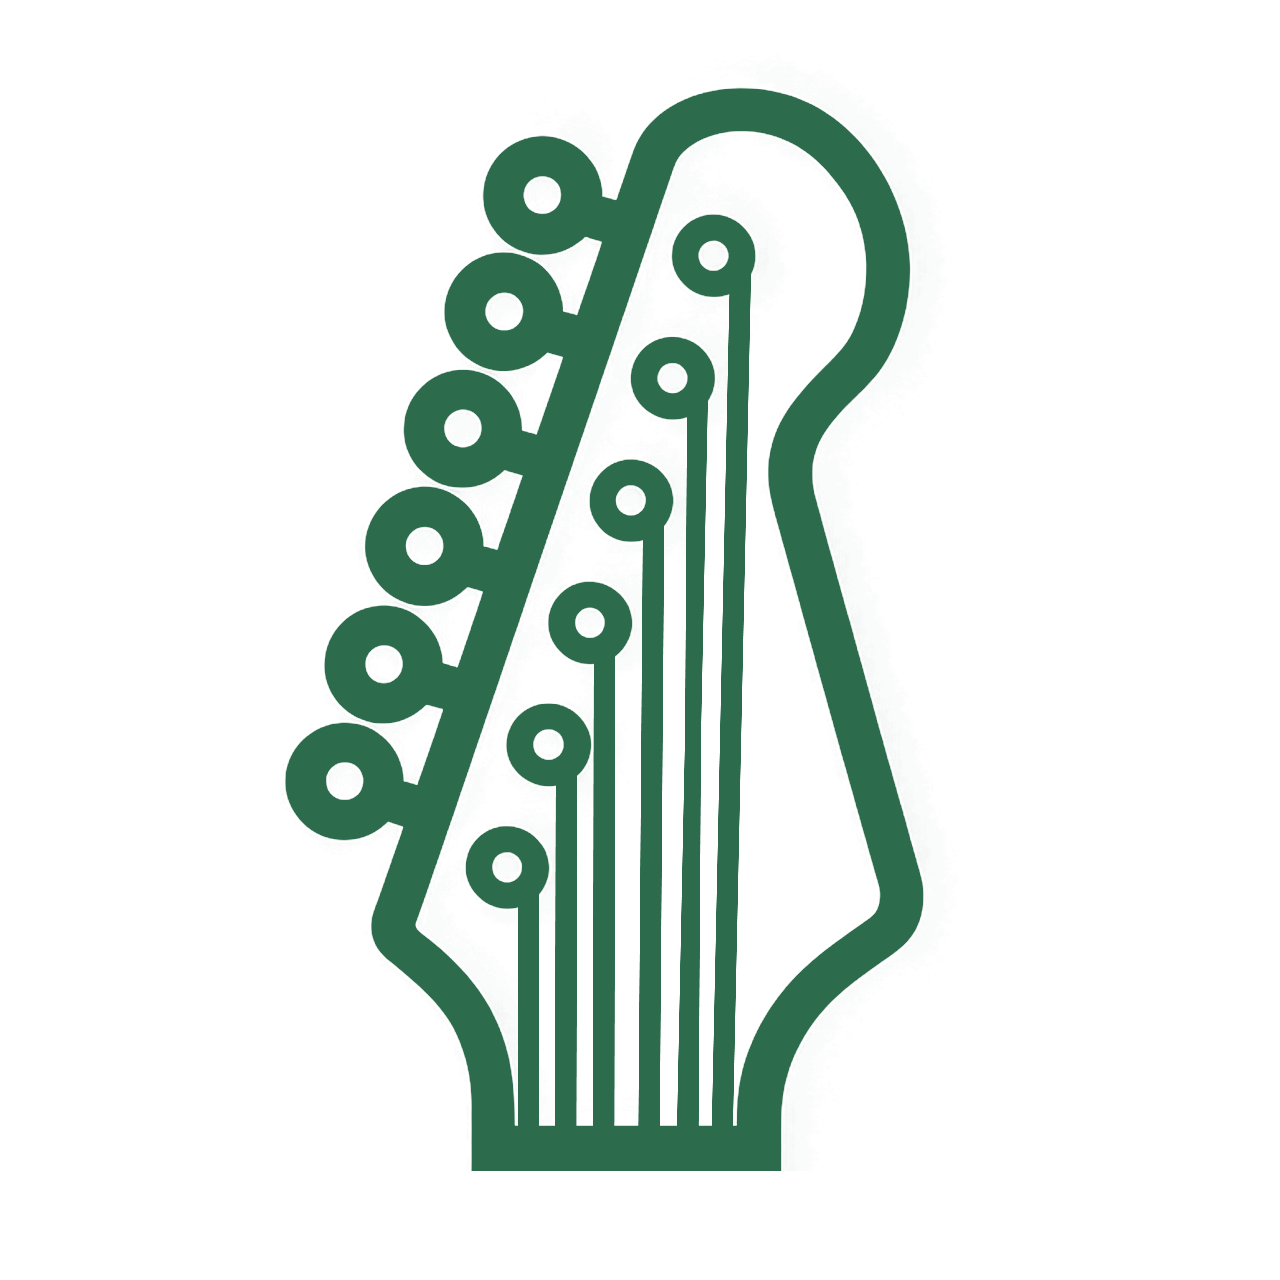
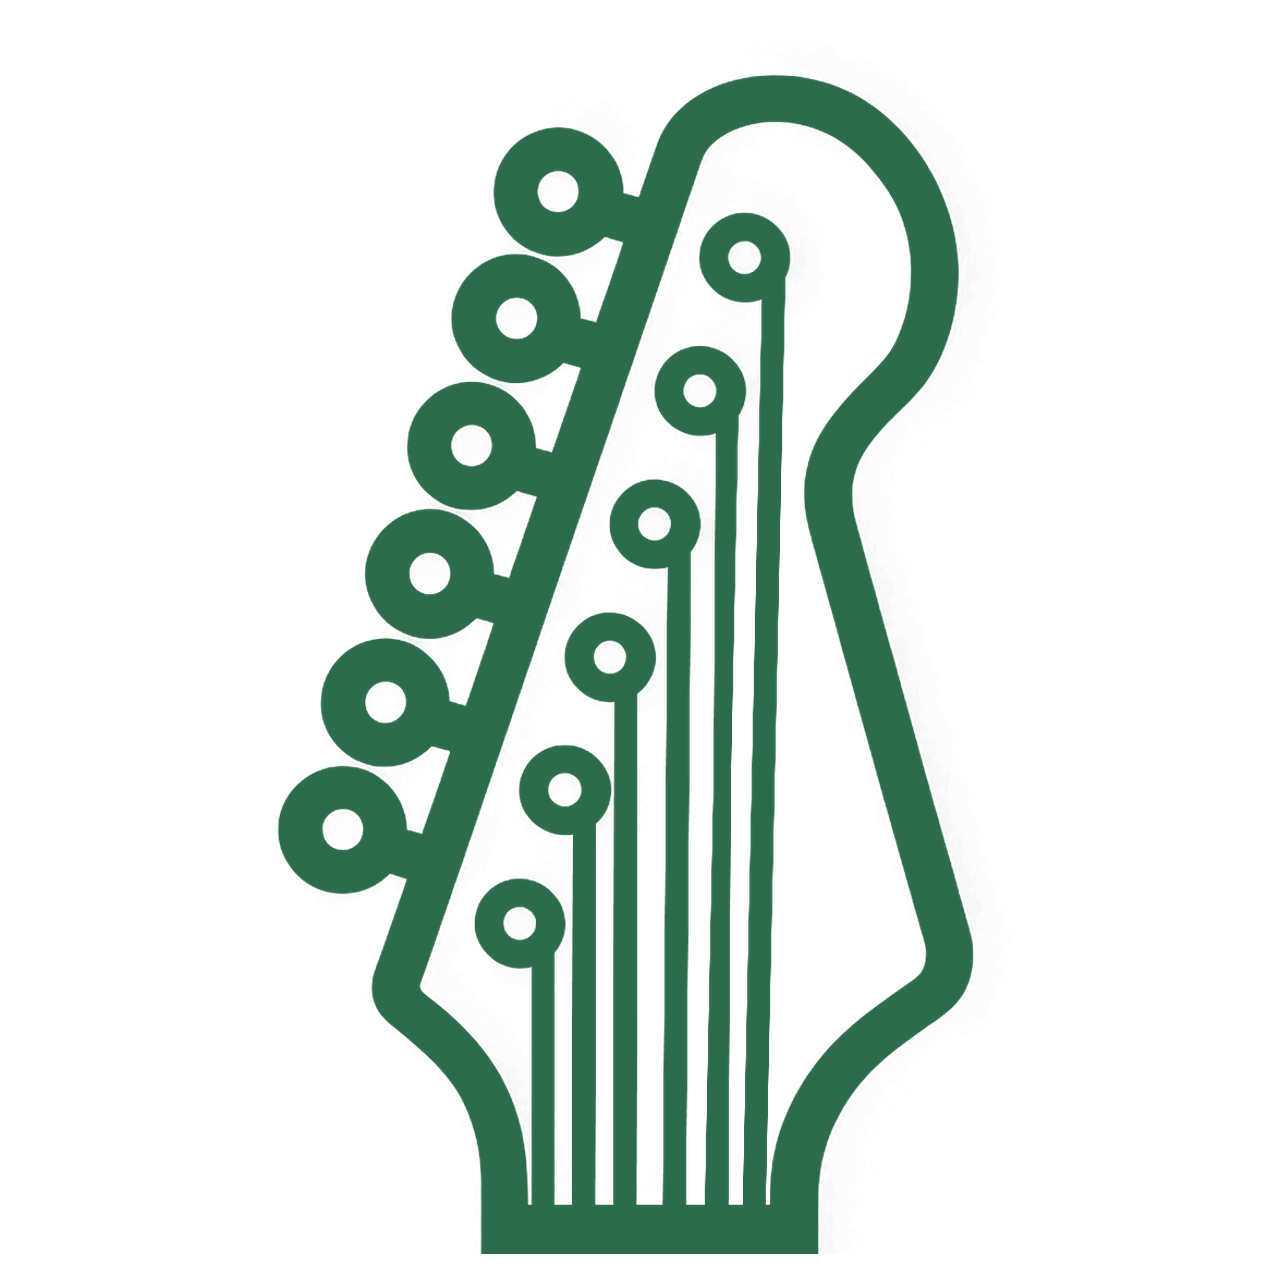
튜너 개조

Changed region(s): [[0.2188, 0.0312, 0.7812, 1.0]]

diff --git a/tools.html b/tools.html
@@ -4505,7 +4505,7 @@
         }
         /* ─ 튜너 헤드스톡 그래픽 — 시작하기 버튼 아래, 6현 표준 튜닝(E A D G B E) 가이드 ─ */
         .tuner-headstock {
-            max-width: 220px;
+            max-width: 270px;
             display: flex;
             justify-content: center;
             user-select: none;
@@ -4558,6 +4558,85 @@
         :root[data-theme="dark"] .tuner-mode-btn { color: rgba(232, 240, 236, 0.6); }
         :root[data-theme="dark"] .tuner-mode-btn:hover { color: var(--green-pale); }
 
+        /* 자동/수동(왼쪽) + 헤드 디자인 드롭다운(오른쪽) 한 줄 */
+        .tuner-controls-row {
+            display: flex; align-items: center; justify-content: center;
+            gap: 0.6rem; flex-wrap: wrap;
+            margin: 1.4rem auto 0.6rem;
+        }
+        .tuner-controls-row .tuner-mode-toggle { margin: 0; }
+        .tuner-hs-select { position: relative; }
+        .tuner-hs-btn {
+            display: inline-flex; align-items: center; gap: 0.4rem;
+            padding: 0.45rem 0.8rem; border-radius: 999px;
+            background: rgba(42,107,74,0.06);
+            border: 1px solid rgba(42,107,74,0.22);
+            color: var(--text-mid); font-family: inherit; font-size: 0.82rem; font-weight: 600;
+            cursor: pointer; transition: background 0.18s;
+        }
+        .tuner-hs-btn:hover { background: rgba(42,107,74,0.12); }
+        .tuner-hs-btn .fa-guitar { color: var(--green-deep); }
+        .tuner-hs-caret { font-size: 0.62rem; transition: transform 0.18s; }
+        .tuner-hs-btn[aria-expanded="true"] .tuner-hs-caret { transform: rotate(180deg); }
+        .tuner-hs-menu {
+            position: absolute; top: calc(100% + 6px); right: 0; z-index: 30;
+            min-width: 190px; padding: 0.3rem;
+            background: var(--bg-panel);
+            border: 1px solid rgba(42,107,74,0.2); border-radius: 12px;
+            box-shadow: 0 8px 24px rgba(0,0,0,0.16);
+            display: flex; flex-direction: column; gap: 1px;
+        }
+        .tuner-hs-menu[hidden] { display: none; }
+        .tuner-hs-menu button {
+            display: flex; align-items: baseline; gap: 0.4rem;
+            text-align: left; padding: 0.5rem 0.6rem; border-radius: 8px;
+            background: transparent; border: none; cursor: pointer;
+            font-family: inherit; font-size: 0.83rem; color: var(--text-primary);
+        }
+        .tuner-hs-menu button:hover:not([disabled]) { background: rgba(42,107,74,0.1); }
+        .tuner-hs-menu button.active { background: rgba(82,168,114,0.16); color: var(--green-deep); font-weight: 600; }
+        .tuner-hs-menu button[disabled] { opacity: 0.45; cursor: default; }
+        .tuner-hs-sub { font-size: 0.72rem; color: var(--text-light); margin-left: auto; }
+        :root[data-theme="dark"] .tuner-hs-btn { background: rgba(180,230,200,0.08); border-color: rgba(180,230,200,0.22); color: #cfe0d6; }
+        :root[data-theme="dark"] .tuner-hs-btn:hover { background: rgba(180,230,200,0.16); }
+        :root[data-theme="dark"] .tuner-hs-btn .fa-guitar { color: var(--green-light); }
+        :root[data-theme="dark"] .tuner-hs-menu { border-color: rgba(180,230,200,0.22); }
+
+        /* ── 헤드 디자인별 줄 버튼 표시 ── */
+        .tuner-headstock .tuner-string-btn { display: none; }
+        .tuner-headstock.hs-3p3 .sb-guitar,
+        .tuner-headstock.hs-inline .sb-guitar { display: block; }
+        .tuner-headstock.hs-bass4 .sb-bass4 { display: block; }
+        .tuner-headstock.hs-bass5 .sb-bass5 { display: block; }
+        /* 인라인·베이스 — 줄 버튼을 페그 '왼쪽'으로 빼서 배치(겹침 방지, 작은 버튼) */
+        .tuner-headstock.hs-inline .tuner-string-btn,
+        .tuner-headstock.hs-bass4 .tuner-string-btn,
+        .tuner-headstock.hs-bass5 .tuner-string-btn {
+            right: auto; transform: translate(-50%, -50%);
+            width: 27px; height: 27px; font-size: 0.84rem;
+        }
+        .tuner-headstock.hs-inline .tuner-string-btn:hover,
+        .tuner-headstock.hs-bass4 .tuner-string-btn:hover,
+        .tuner-headstock.hs-bass5 .tuner-string-btn:hover { transform: translate(-50%, -50%) scale(1.08); }
+        /* 6 인라인 (위→아래 e·B·G·D·A·E — 고음이 위), 페그 왼쪽 위로 / 1번줄 e 더 위로 */
+        .tuner-headstock.hs-inline .tuner-string-btn[data-midi="64"] { left: 33%; top: 13%; }
+        .tuner-headstock.hs-inline .tuner-string-btn[data-midi="59"] { left: 30%; top: 22%; }
+        .tuner-headstock.hs-inline .tuner-string-btn[data-midi="55"] { left: 25%; top: 32%; }
+        .tuner-headstock.hs-inline .tuner-string-btn[data-midi="50"] { left: 21%; top: 42%; }
+        .tuner-headstock.hs-inline .tuner-string-btn[data-midi="45"] { left: 18%; top: 52%; }
+        .tuner-headstock.hs-inline .tuner-string-btn[data-midi="40"] { left: 15%; top: 62%; }
+        /* 베이스 4현 (위→아래 G·D·A·E), 페그 왼쪽 (더 가깝게) */
+        .tuner-headstock.hs-bass4 .tuner-string-btn[data-midi="43"] { left: 30%; top: 18%; }
+        .tuner-headstock.hs-bass4 .tuner-string-btn[data-midi="38"] { left: 26%; top: 33%; }
+        .tuner-headstock.hs-bass4 .tuner-string-btn[data-midi="33"] { left: 21%; top: 50%; }
+        .tuner-headstock.hs-bass4 .tuner-string-btn[data-midi="28"] { left: 17%; top: 66%; }
+        /* 베이스 5현 (왼쪽 위→아래 D·A·E·B + 오른쪽 G). 왼쪽 4개는 살짝 멀게, 오른쪽 G */
+        .tuner-headstock.hs-bass5 .tuner-string-btn[data-midi="38"] { left: 25%; top: 18%; }
+        .tuner-headstock.hs-bass5 .tuner-string-btn[data-midi="33"] { left: 19%; top: 33%; }
+        .tuner-headstock.hs-bass5 .tuner-string-btn[data-midi="28"] { left: 14%; top: 50%; }
+        .tuner-headstock.hs-bass5 .tuner-string-btn[data-midi="23"] { left: 11%; top: 67%; }
+        .tuner-headstock.hs-bass5 .tuner-string-btn[data-midi="43"] { left: 91%; top: 58%; }
+
         /* 헤드스톡 — 좌우 줄별 버튼을 SVG 위에 absolute 로 얹는다.
            페그 y 위치 (SVG viewBox 400 기준 100/180/260) → 25%/45%/65%. */
         .tuner-headstock-row {
@@ -4601,6 +4680,25 @@
             background: rgba(114, 196, 146, 0.18);
             box-shadow: 0 0 0 3px rgba(114, 196, 146, 0.25);
         }
+        /* 튜닝 완료된 줄 — 영구 표시 (다음 줄 튜닝해도 유지). 진한 초록 + ✓ 배지 */
+        .tuner-string-btn.tuned:not(.in-tune) {
+            background: var(--green-deep);
+            color: #fff;
+            border-color: var(--green-deep);
+        }
+        .tuner-string-btn.tuned::after {
+            content: '✓';
+            position: absolute; top: -5px; right: -5px;
+            width: 15px; height: 15px; line-height: 15px;
+            font-size: 9px; font-weight: 700; text-align: center;
+            background: var(--green-mid); color: #fff;
+            border-radius: 50%; border: 2px solid #fff;
+            font-family: sans-serif; z-index: 3;
+        }
+        :root[data-theme="dark"] .tuner-string-btn.tuned:not(.in-tune) {
+            background: var(--green-deep); color: #fff; border-color: var(--green-mid);
+        }
+        :root[data-theme="dark"] .tuner-string-btn.tuned::after { border-color: var(--bg-panel); }
         /* 마이크 입력이 그 음에 도달했을 때 — 강한 초록 빛남. */
         .tuner-string-btn.in-tune {
             background: var(--green-mid);
@@ -4630,7 +4728,7 @@
         }
         :root[data-theme="dark"] .tuner-headstock .hs-label text { fill: #f0e9d8; }
         @media (max-width: 600px) {
-            .tuner-headstock { max-width: 180px; }
+            .tuner-headstock { max-width: 240px; }
         }
         .tuner-note {
             font-family: 'Playfair Display', serif;
@@ -7442,21 +7540,47 @@
                 <!-- 자동/수동 토글 + 헤드스톡 + 좌우 줄별 버튼 묶음.
                      자동: 마이크 입력에서 가장 가까운 음을 자동 감지.
                      수동: 사용자가 선택한 줄(음정) 을 기준으로 ±cents 만 표시 — 초보에게 더 직관. -->
-                <div class="tuner-mode-toggle" role="group" aria-label="튜너 모드">
-                    <button type="button" class="tuner-mode-btn active" id="tunerModeAuto" data-action="setTunerMode" data-args="auto">자동</button>
-                    <button type="button" class="tuner-mode-btn" id="tunerModeManual" data-action="setTunerMode" data-args="manual">수동 (쉬움)</button>
+                <div class="tuner-controls-row">
+                    <div class="tuner-mode-toggle" role="group" aria-label="튜너 모드">
+                        <button type="button" class="tuner-mode-btn active" id="tunerModeAuto" data-action="setTunerMode" data-args="auto">자동</button>
+                        <button type="button" class="tuner-mode-btn" id="tunerModeManual" data-action="setTunerMode" data-args="manual">수동 (쉬움)</button>
+                    </div>
+                    <div class="tuner-hs-select">
+                        <button type="button" class="tuner-hs-btn" id="tunerHsBtn" data-action="toggleTunerHsMenu" aria-haspopup="true" aria-expanded="false" title="헤드스톡(머신헤드) 디자인 선택">
+                            <i class="fas fa-guitar" aria-hidden="true"></i>
+                            <span id="tunerHsLabel">3+3 헤드</span>
+                            <i class="fas fa-chevron-down tuner-hs-caret" aria-hidden="true"></i>
+                        </button>
+                        <div class="tuner-hs-menu" id="tunerHsMenu" hidden>
+                            <button type="button" class="active" data-action="setTunerHeadstock" data-args="3p3">3+3 헤드 <span class="tuner-hs-sub">양쪽 3개씩</span></button>
+                            <button type="button" data-action="setTunerHeadstock" data-args="inline">6 인라인 헤드 <span class="tuner-hs-sub">한쪽 6개</span></button>
+                            <button type="button" data-action="setTunerHeadstock" data-args="bass4">베이스 4현 <span class="tuner-hs-sub">4-in-line</span></button>
+                            <button type="button" data-action="setTunerHeadstock" data-args="bass5">베이스 5현 <span class="tuner-hs-sub">4+1</span></button>
+                        </div>
+                    </div>
                 </div>
                 <div class="tuner-headstock-row">
-                <div class="tuner-headstock">
+                <div class="tuner-headstock hs-3p3">
                     <!-- 좌우 줄별 버튼 — SVG 페그(헤드머신) 바로 옆에 absolute 로 얹음.
                          페그 y 위치 (SVG viewBox 400 기준 100/180/260) → 25%/45%/65%. -->
-                    <button type="button" class="tuner-string-btn left top"    data-midi="50" data-action="setTunerTargetMidi" data-args="50" aria-label="4번줄 D3">D</button>
-                    <button type="button" class="tuner-string-btn left middle" data-midi="45" data-action="setTunerTargetMidi" data-args="45" aria-label="5번줄 A2">A</button>
-                    <button type="button" class="tuner-string-btn left bottom" data-midi="40" data-action="setTunerTargetMidi" data-args="40" aria-label="6번줄 E2">E</button>
+                    <button type="button" class="tuner-string-btn sb-guitar left top"    data-midi="50" data-action="setTunerTargetMidi" data-args="50" aria-label="4번줄 D3">D</button>
+                    <button type="button" class="tuner-string-btn sb-guitar left middle" data-midi="45" data-action="setTunerTargetMidi" data-args="45" aria-label="5번줄 A2">A</button>
+                    <button type="button" class="tuner-string-btn sb-guitar left bottom" data-midi="40" data-action="setTunerTargetMidi" data-args="40" aria-label="6번줄 E2">E</button>
+                    <button type="button" class="tuner-string-btn sb-guitar right top"    data-midi="55" data-action="setTunerTargetMidi" data-args="55" aria-label="3번줄 G3">G</button>
+                    <button type="button" class="tuner-string-btn sb-guitar right middle" data-midi="59" data-action="setTunerTargetMidi" data-args="59" aria-label="2번줄 B3">B</button>
+                    <button type="button" class="tuner-string-btn sb-guitar right bottom" data-midi="64" data-action="setTunerTargetMidi" data-args="64" aria-label="1번줄 E4">e</button>
+                    <!-- 베이스 4현 (E A D G) -->
+                    <button type="button" class="tuner-string-btn sb-bass4" data-midi="43" data-action="setTunerTargetMidi" data-args="43" aria-label="베이스 1번줄 G2">G</button>
+                    <button type="button" class="tuner-string-btn sb-bass4" data-midi="38" data-action="setTunerTargetMidi" data-args="38" aria-label="베이스 2번줄 D2">D</button>
+                    <button type="button" class="tuner-string-btn sb-bass4" data-midi="33" data-action="setTunerTargetMidi" data-args="33" aria-label="베이스 3번줄 A1">A</button>
+                    <button type="button" class="tuner-string-btn sb-bass4" data-midi="28" data-action="setTunerTargetMidi" data-args="28" aria-label="베이스 4번줄 E1">E</button>
+                    <!-- 베이스 5현 (B E A D G) -->
+                    <button type="button" class="tuner-string-btn sb-bass5" data-midi="43" data-action="setTunerTargetMidi" data-args="43" aria-label="베이스 1번줄 G2">G</button>
+                    <button type="button" class="tuner-string-btn sb-bass5" data-midi="38" data-action="setTunerTargetMidi" data-args="38" aria-label="베이스 2번줄 D2">D</button>
+                    <button type="button" class="tuner-string-btn sb-bass5" data-midi="33" data-action="setTunerTargetMidi" data-args="33" aria-label="베이스 3번줄 A1">A</button>
+                    <button type="button" class="tuner-string-btn sb-bass5" data-midi="28" data-action="setTunerTargetMidi" data-args="28" aria-label="베이스 4번줄 E1">E</button>
+                    <button type="button" class="tuner-string-btn sb-bass5" data-midi="23" data-action="setTunerTargetMidi" data-args="23" aria-label="베이스 5번줄 B0">B</button>
                     <img class="tuner-hs-img" src="images/tuner-headstock.png?v=4" alt="기타 헤드스탁" draggable="false">
-                    <button type="button" class="tuner-string-btn right top"    data-midi="55" data-action="setTunerTargetMidi" data-args="55" aria-label="3번줄 G3">G</button>
-                    <button type="button" class="tuner-string-btn right middle" data-midi="59" data-action="setTunerTargetMidi" data-args="59" aria-label="2번줄 B3">B</button>
-                    <button type="button" class="tuner-string-btn right bottom" data-midi="64" data-action="setTunerTargetMidi" data-args="64" aria-label="1번줄 E4">E</button>
                 </div>
                 </div>
                 <p class="tuner-hint">마이크 권한을 허용해주세요. 기타 한 줄씩 천천히 쳐보세요.</p>
@@ -9244,6 +9368,53 @@
                 _refreshTunerButtons();
             };
 
+            // ─── 헤드스톡(머신헤드) 디자인 선택 — 3+3 / 6 인라인 ───────
+            var TUNER_HS_IMG = {
+                '3p3':   'images/tuner-headstock.png?v=4',
+                'inline':'images/tuner-headstock-inline.png?v=2',
+                'bass4': 'images/tuner-headstock-bass4.png?v=1',
+                'bass5': 'images/tuner-headstock-bass5.png?v=1'
+            };
+            var TUNER_HS_LABEL = { '3p3':'3+3 헤드', 'inline':'6 인라인', 'bass4':'베이스 4현', 'bass5':'베이스 5현' };
+            window.setTunerHeadstock = function(design) {
+                if (!TUNER_HS_IMG[design]) return;
+                var hs = document.querySelector('.tuner-headstock');
+                var img = document.querySelector('.tuner-hs-img');
+                if (hs) {
+                    ['hs-3p3','hs-inline','hs-bass4','hs-bass5'].forEach(function(c){ hs.classList.remove(c); });
+                    hs.classList.add('hs-' + design);
+                }
+                if (img) img.src = TUNER_HS_IMG[design];
+                var lbl = document.getElementById('tunerHsLabel');
+                if (lbl) lbl.textContent = TUNER_HS_LABEL[design];
+                document.querySelectorAll('#tunerHsMenu button[data-args]').forEach(function(b) {
+                    b.classList.toggle('active', b.dataset.args === design);
+                });
+                var m = document.getElementById('tunerHsMenu'), btn = document.getElementById('tunerHsBtn');
+                if (m) m.setAttribute('hidden', '');
+                if (btn) btn.setAttribute('aria-expanded', 'false');
+                try { localStorage.setItem('tunerHeadstock', design); } catch (e) {}
+            };
+            window.toggleTunerHsMenu = function() {
+                var m = document.getElementById('tunerHsMenu'), btn = document.getElementById('tunerHsBtn');
+                if (!m) return;
+                if (m.hasAttribute('hidden')) { m.removeAttribute('hidden'); if (btn) btn.setAttribute('aria-expanded', 'true'); }
+                else { m.setAttribute('hidden', ''); if (btn) btn.setAttribute('aria-expanded', 'false'); }
+            };
+            (function() {
+                // 저장된 헤드 디자인 복원
+                try { var d = localStorage.getItem('tunerHeadstock'); if (d === 'inline' || d === '3p3') window.setTunerHeadstock(d); } catch (e) {}
+                function closeHsMenu() {
+                    var m = document.getElementById('tunerHsMenu'); if (!m || m.hasAttribute('hidden')) return;
+                    m.setAttribute('hidden', ''); var b = document.getElementById('tunerHsBtn'); if (b) b.setAttribute('aria-expanded', 'false');
+                }
+                document.addEventListener('click', function(e) {
+                    var sel = document.querySelector('.tuner-hs-select');
+                    if (sel && !sel.contains(e.target)) closeHsMenu();
+                });
+                document.addEventListener('keydown', function(e) { if (e.key === 'Escape') closeHsMenu(); });
+            })();
+
             function freqToNote(freq) {
                 const noteNum = 12 * (Math.log2(freq / 440)) + 69;
                 const rounded = Math.round(noteNum);
@@ -9305,6 +9476,13 @@
                     let hasValue = false;
                     const SMOOTHING = 0.12;
 
+                    // ─── 튜닝 완료 표시 ───
+                    //   한 줄이 in-tune 존(±8c)에 ~0.5초 머무르면 그 줄을 '튜닝됨'으로 영구 표시.
+                    //   다음 줄로 넘어가도 유지. (시작할 때마다 초기화)
+                    document.querySelectorAll('.tuner-string-btn.tuned').forEach(function(b) { b.classList.remove('tuned'); });
+                    var tunedSet = {};          // midi → true
+                    var holdMidi = null, holdFrames = 0;
+
                     function update() {
                         analyser.getFloatTimeDomainData(buf);
                         const freq = autoCorrelate(buf, audioCtx.sampleRate);
@@ -9318,6 +9496,9 @@
                                 const tMidi = tunerTargetMidi;
                                 const targetFreq = 440 * Math.pow(2, (tMidi - 69) / 12);
                                 cents = 1200 * (Math.log(freq / targetFreq) / Math.LN2);
+                                // 옥타브 접기 — 기타 음이 서브하모닉/하모닉으로 한 옥타브 어긋나게 잡혀도
+                                //   ±600 센트 범위로 환원해 '맞는 음정'이면 바늘이 중앙으로 오게.
+                                cents = cents - 1200 * Math.round(cents / 1200);
                                 noteName = NOTE_STRINGS[((tMidi % 12) + 12) % 12];
                                 octave = Math.floor(tMidi / 12) - 1;
                                 displayMidi = tMidi;
@@ -9355,8 +9536,23 @@
                                 const bm = parseInt(b.dataset.midi, 10);
                                 b.classList.toggle('in-tune', inTune && bm === displayMidi);
                             });
+
+                            // 튜닝 완료 누적 — 같은 줄이 in-tune 존(±8c)에 ~0.5초 유지되면 '튜닝됨' 영구 표시
+                            if (Math.abs(smoothedCents) <= 8 && displayMidi != null) {
+                                if (holdMidi === displayMidi) holdFrames++;
+                                else { holdMidi = displayMidi; holdFrames = 1; }
+                                if (holdFrames >= 28 && !tunedSet[displayMidi]) {
+                                    tunedSet[displayMidi] = true;
+                                    document.querySelectorAll('.tuner-string-btn[data-midi="' + displayMidi + '"]').forEach(function(b) {
+                                        b.classList.add('tuned');
+                                    });
+                                }
+                            } else {
+                                holdFrames = 0;
+                            }
                         } else {
-                            // 신호 없음 — 모든 버튼 glow 해제
+                            // 신호 없음 — 모든 버튼 glow 해제 + 유지카운트 리셋
+                            holdFrames = 0;
                             document.querySelectorAll('.tuner-string-btn.in-tune').forEach(function(b) {
                                 b.classList.remove('in-tune');
                             });